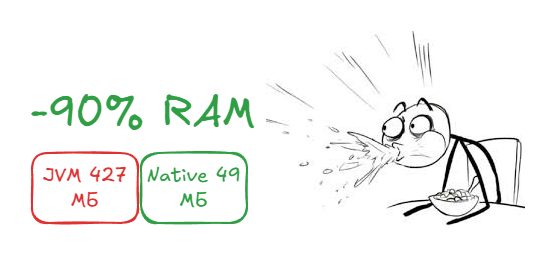
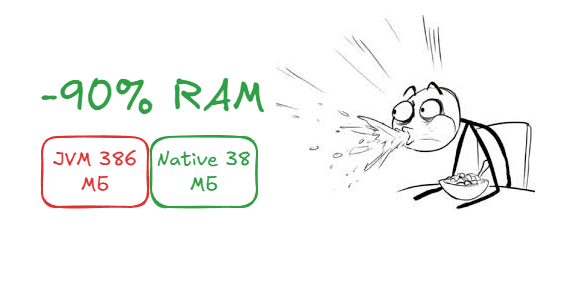
feature/team-2 Added english language readme. Modified russian readme. Updated image -90percents.

diff --git a/README.md b/README.md
@@ -1,0 +1,208 @@
+[📖 Read full version of article on the DZone]()
+# Java Lean & Fast: 38 MiB RAM and 1.2s Startup. 🚀
+# Is This the End of the Era for Traditional JVM? 💀
+
+<p align="center">
+    <img src="images/-90percents.PNG" alt="Java on Diet Meme" width="610">
+</p>
+
+[![EN](https://img.shields.io)](README.md)
+[![RU](https://img.shields.io)](README.ru.md)
+
+> **This repository contains research materials on extreme Java stack optimization**
+
+When I first saw my Spring Boot service — integrated with PostgreSQL, MongoDB, and Kafka — consuming only **38 MiB of RAM**, I felt a genuine thrill. It was the excitement of an engineer who had finally outsmarted the system. I was electrified by **Native Image**: its efficiency, its aggressive ahead-of-time (AOT) compilation, and how it transforms a "bloated" enterprise stack into a lean, high-performance binary.
+
+For years, we've been told: "_Java is resource-hungry!_" The common wisdom was: "_Allocate 2 GB per microservice, or the JIT won't warm up._"
+
+**Forget all that.** I've conducted an R&D project that puts an end to the debate over Java's appetite!
+
+These aren't just benchmarks. **This is an autopsy!**
+
+---
+
+### Table of Contents
+
+1. [Hardware Setup](#hardware-setup)
+2. [The "Hotel Service" Stack](#the-hotel-service-stack)
+3. [Docker stats: Initial Baseline](#docker-stats-initial-baseline)
+4. [Docker stats: Resource Shift Under Load](#docker-stats-resource-shift-under-load)
+5. [CPU Usage: JIT Noise vs Static Calm](#cpu-usage-jit-noise-vs-static-calm)
+6. [Heaps: Sawtooth vs Flatline](#heaps-sawtooth-vs-flatline)
+7. [Classes and Threads: Static vs Dynamic](#classes-and-threads-static-vs-dynamic)
+8. [Garbage Collector: Surgical Silence vs Stop-the-World](#garbage-collector-surgical-silence-vs-stop-the-world)
+9. [Database Micro-latency: The "Hot Pool" Effect](#database-micro-latency-the-hot-pool-effect)
+10. [The Battle in Numbers: JRE vs Native Image](#the-battle-in-numbers-jre-vs-native-image)
+11. [25 Technical Takeaways: Why This is a Revolution](#25-technical-takeaways-why-this-is-a-revolution)
+12. [Instead of a Conclusion](#instead-of-a-conclusion)
+13. [P.S. See It for Yourself](#ps-see-it-for-yourself)
+
+## Hardware Setup
+The benchmarks were conducted on an **HP EliteBook 8770w** workstation:
+- **CPU:** Intel i7-3720QM (4 Cores / 8 Threads)
+- **RAM:** 32.0 GB
+- **Storage:** SSD
+- **OS:** Windows 10
+- **Containerization:** Docker Desktop
+
+## The "Hotel Service" Stack
+To avoid "toy project" bias and keep the testing realistic, I used a production-grade microservices stack:
+- **Java 21 + Project Loom (Virtual Threads):** Leveraging Virtual Threads for high concurrency.
+- **Spring Boot 3.5 + Hibernate 6.6:** Utilizing AOT (Ahead-of-Time) capabilities and Bytecode Enhancement.
+- **Infrastructure:** PostgreSQL 17, MongoDB 7, and Apache Kafka 3.x
+- **The Head-to-Head Battle:** **Eclipse Temurin 21 JDK (HotSpot)** vs **Oracle GraalVM 21 (Native Image)**.
+
+## Visual Autopsy: Runtime Behavior
+Before we dive into the spreadsheets and raw data, let's examine the "cardiogram" of the system.
+
+On the left, you'll see the classic, resource-heavy power of **HotSpot**; on the right, the surgically lean profile of Native Image.
+
+### Docker stats: Initial Baseline
+
+|                  Temurin JRE (HotSpot)                  |               Oracle GraalVM (Native Image)                |
+|:-------------------------------------------------------:|:----------------------------------------------------------:|
+| ![](images/0_docker_stats_temurin_jvm_hotel_before.PNG) | ![](images/0_docker_stats_vanilla_native_hotel_before.PNG) |
+
+> After container startup, the JRE version (hotel) consumes **386 MiB**, while the native binary (hotel-native) takes up a modest **38 MiB**. This makes it the lightest component of the infrastructure — lighter than PostgreSQL and **9.5 times** leaner than Kafka.
+
+### Docker stats: Resource Shift Under Load
+
+|                        Temurin JRE (HotSpot)                         |                  Oracle GraalVM (Native Image)                   |
+|:--------------------------------------------------------------------:|:----------------------------------------------------------------:|
+| ![](images/0_docker_stats_stress_temurin_jvm_hotel_after_stress.PNG) | ![](images/0_docker_stats_stress_vanilla_native_hotel_after.PNG) |
+
+> The results speak for themselves. While the JRE version (hotel) struggles under pressure, consuming **417 MiB**, the native binary (hotel-native) stays lean at just **32 MiB**.
+
+### CPU Usage: JIT Noise vs Static Calm
+
+|                       Temurin JRE (HotSpot)                       |                 Oracle GraalVM (Native Image)                 |
+|:-----------------------------------------------------------------:|:-------------------------------------------------------------:|
+| ![](images/1_basic_statistics_temurin_jvm_hotel_after_stress.PNG) | ![](images/1_basic_statistics_vanilla_native_hotel_after.PNG) |
+
+> While the classical JVM produces noticeable "background noise" (**Mean: 0.0345**) due to JIT compilation (C2 profiling and re-optimization) and GC cycles, Native Image shows near-zero parasitic load (**Mean: 0.0276**). On average, this is **1.25x** more efficient, reaching parity only during idle periods.
+
+### Heaps: Sawtooth vs Flatline
+
+|                          Temurin JRE (HotSpot)                          |                   Oracle GraalVM (Native Image)                   |
+|:-----------------------------------------------------------------------:|:-----------------------------------------------------------------:|
+| ![](images/2_JVM_statistics_heaps_temurin_jvm_hotel_after_stress_1.PNG) | ![](images/2_JVM_statistics_heaps_vanilla_native_hotel_after.PNG) |
+
+> The classic "sawtooth" pattern of the Eden Space in JVM contrasts sharply with the perfectly flat line of the Native Image. Note the Non-Heap metrics: in the native image, they are virtually non-existent. We have effectively discarded hundreds of megabytes of "infrastructure overhead".
+
+### Classes and Threads: Static vs Dynamic
+
+|                               Temurin JRE (HotSpot)                               |                        Oracle GraalVM (Native Image)                        |
+|:---------------------------------------------------------------------------------:|:---------------------------------------------------------------------------:|
+| ![](images/3_JVM_statistics_threads_buffers_temurin_jvm_hotel_after_stress_1.PNG) | ![](images/3_JVM_statistics_threads_buffers_vanilla_native_hotel_after.PNG) |
+
+> **"Shock content" for a Java developer:** 0 loaded classes. At runtime, classes do not exist in Native Image as separate entities. Furthermore, the number of system threads is halved (28 vs 51) thanks to the synergy between Native Image and **Project Loom**.
+
+### Garbage Collector: Surgical Silence vs Stop-the-World
+
+|                       Temurin JRE (HotSpot)                        |                 Oracle GraalVM (Native Image)                  |
+|:------------------------------------------------------------------:|:--------------------------------------------------------------:|
+| ![](images/4_JVM_statistics_gc_temurin_jvm_hotel_after_stress.PNG) | ![](images/4_JVM_statistics_gc_vanilla_native_hotel_after.PNG) |
+
+> The "Stop the World" duration charts for Native Image show dead silence. While the standard JVM performed a "tap dance" of over 20 GC cycles (G1 Evacuation Pauses) peaking at 29.0 ms, the GraalVM binary remained perfectly steady. By utilizing **Serial GC** by default, Native Image handles memory so delicately that monitoring systems barely register the pauses. This isn't just about saving RAM; it's about a predictable SLA without the overhead of runtime self-maintenance.
+
+### Database Micro-latency: The "Hot Pool" Effect
+
+|                        Temurin JRE (HotSpot)                         |                  Oracle GraalVM (Native Image)                   |
+|:--------------------------------------------------------------------:|:----------------------------------------------------------------:|
+| ![](images/5_HikariCP_statistics_temurin_jvm_hotel_after_stress.PNG) | ![](images/5_HikariCP_statistics_vanilla_native_hotel_after.PNG) |
+
+> Under load, the latency for acquiring HikariCP connections in the classical JVM drops from **~900 µs** to **80–100 µs**. In contrast, the Native Image latency drops from **~270 µs** to a record-breaking **40 µs**.
+
+## The Battle in Numbers: JRE vs Native Image
+
+I applied a load of 1,000 requests to both versions. The results were so staggering that I had to double-check my monitoring tools.
+
+
+| Metric             | Eclipse Temurin (JRE) | Oracle GraalVM (Native Image) | The Profit         |
+|--------------------|-----------------------|-------------------------------|--------------------|
+| Startup Time       | 22.542 sec            | **1.27 sec**                  | X18 Faster         |
+| Ram (idle)         | 386.8 MiB             | **38.0 MiB**                  | –90.1% RAM         |
+| Ram (Stress Load)  | 424.9 MiB             | **34.6 MiB**                  | Native got leaner! |
+| Loaded Classes     | 21,542                | **0**                         | Pure Static        |
+| System Threads     | 51                    | **28**                        | В 1.8 Leaner       |
+| STW Pauses (Total) | 29.0 ms               | **~0 ms**                     | Perfect SLA        |
+
+## 25 Technical Takeaways: Why This is a Revolution
+
+Below is the raw analysis of Prometheus charts and system logs. No sugar-coating.
+
+<details>
+<summary><b>Infrastructure and Memory</b></summary>
+
+1. **The Death of Metaspace:** In the Native version, there are 0 loaded classes at runtime. We saved 96 MiB just by eliminating class structure descriptions.
+2. **Zero Code Cache:** In the JRE, the JIT compiler claimed 16 MiB for "hot" code during the test. In Native, this is 0. The code is "baked" into the binary.
+3. **The Paradox of Load:** Under stress, the Native Image consumed less memory (dropping from 38 to 34 MiB). Oracle GraalVM's Serial GC operates with surgical precision.
+4. **Density:** Where you once ran 1 JRE service, you can now fit 10 Native instances. This is an order-of-magnitude reduction in TCO (Total Cost of Ownership).
+5. **Non-Heap as a Phantom:** The JRE's Non-Heap area alone weighs 3 times more than our entire native application.
+6. **Compressed Class Space:** Another 14 MiB "dynamic tax" that Native simply doesn't pay.
+7. **Data Locality:** Native Image achieves a "Compact Layout", keeping data shoulder-to-shoulder for better CPU cache utilization.
+</details>
+
+
+<details>
+<summary><b>Performance and Latency</b></summary>
+
+8. **Instant Start:** 1.2 seconds isn't just fast; it's "Serverless-ready" and enables true "Scale-to-Zero" architectures.
+9. **Network Stack Cold Start:** The latency of the very first request in Native was 912ms, compared to 1.2s in the JRE.
+10. **JIT Inertia:** JVM versions need "warm-up" time. Native delivers peak performance from the very first millisecond.
+11. **Database Micro-latency:** HikariCP connection acquisition in Native is 2-3 times faster under load compared to the JRE.
+12. **The Throughput Trade-off:** After warm-up, the JRE clocked 10.9ms, while Native kept pace at 14.9ms while consuming 10x fewer resources.
+13. **Zero STW Jitter:** While the JRE "froze the world" 20 times (29ms total duration, 9ms peaks), Native maintained zero jitter throughout.
+</details>
+
+
+<details>
+<summary><b>Architecture and Runtime</b></summary>
+
+14. **Project Loom Efficiency:** Virtual threads in Native use 1.8x fewer system descriptors (28 PIDs vs 51).
+15. **Hibernate AOT:** Build-time Bytecode Enhancement is the only way to maintain Lazy Loading in Native without runtime surprises.
+16. **Runtime Purity:** Zero reflection errors in the logs. If a Native Image builds, it runs like a Swiss watch.
+17. **The Death of ClassLoader:** We've eliminated one of the slowest and most complex parts of the JVM.
+18. **Static Metamodel:** No dynamic proxies at runtime. All entity mapping is resolved at compile-time.
+19. **Security:** Native images lack the ability to load malicious bytecode at runtime, significantly shrinking the attack surface.
+</details>
+
+
+<details>
+<summary><b>Observability</b></summary>
+
+20. **Log Transparency:** SLF4J + Logback work in Native without the overhead of dynamic configuration.
+21. **Zero-Overhead Monitoring:** Prometheus scrapes Native Image metrics in microseconds.
+22. **Direct Buffers:** Netty buffer management is more efficient at the OS level in Native mode.
+23. **Build as a Filter:** If your code has "dirty" dependencies, the Native compiler simply won't let them through.
+</details>
+
+
+<details>
+<summary><b>Economics and Deployment</b></summary>
+
+24. **Image Size:** Oracle GraalVM (Debian-based) saved 17 MiB compared to a Temurin JRE on the same OS.
+25. **The CI/CD Trade-off:** We pay for a 1.2s startup with 20 minutes of build time. that is a price I am more than willing to pay for a perfect runtime.
+</details>
+
+## Instead of a Conclusion
+The numbers are right in front of you. The charts speak for themselves. This is the reality of Java in 2026. It is no longer "resource-hungry". It has become as lean and efficient as Go while remaining the robust, Spring-based ecosystem we know and love.
+
+Whether you choose to embrace Native Image or stick with the proven power of HotSpot depends on your specific use case. Both have their place in a modern architecture.
+
+As for me, I'm excited to deploy ten instances using the same resources typically reserved for just one. The revolution isn't coming; it's already here, running in a 38 MiB container.
+
+**Until next time!**
+
+---
+
+## P.S. See It for Yourself
+
+For those who trust only their own eyes and terminal: all the code, Dockerfiles for **all 5 build types** (Vanilla, Axiom, Layers, Native, Uber-jar), and the pre-configured monitoring stack (Prometheus/Grafana) are available in the repository.
+
+Run the experiment, apply the load, and see for yourself:
+1. `git clone https://github.com/GroteskSerega/hotel`
+2. `docker-compose up -d`
+3. Open Grafana at `localhost:3000` and watch your Java service "slim down" right before your eyes in the dashboard(**ID:11378**).
+
+[**GitHub Repository**](https://github.com/GroteskSerega/hotel)

diff --git a/README.ru.md b/README.ru.md
@@ -25,12 +25,17 @@
 
 1. [Оборудование](#оборудование)
 2. [Стек "Hotel Service"](#стек-hotel-service)
-2. [Docker Stats: расстановка сил](#docker-stats-расстановка-сил)
-3. [Heaps: Пила против Прямой](#heaps-пила-против-прямой)
-4. [Классы и Потоки: Статика против Динамики](#классы-и-потоки-статика-против-динамики)
-5. [Garbage Collector: Хирургическая тишина против "остановки мира"](#garbage-collector-хирургическая-тишина-против-остановки-мира)
-6. [Битва в цифрах: JRE vs Native Image](#битва-в-цифрах-jre-vs-native-image)
-7. [25 Технических выводов: Почему это революция](#25-технических-выводов-почему-это-революция)
+3. [Docker Stats: расстановка сил до запуска](#docker-stats-расстановка-сил-до-запуска)
+4. [Docker Stats: изменение сил во время нагрузки](#docker-stats-изменение-сил-во-время-нагрузки)
+5. [CPU Usage: “Штиль” вместо “шума” JIT-компилятора](#cpu-usage-штиль-вместо-шума-jit-компилятора)
+6. [Heaps: Пила против Прямой](#heaps-пила-против-прямой)
+7. [Классы и Потоки: Статика против Динамики](#классы-и-потоки-статика-против-динамики)
+8. [Garbage Collector: Хирургическая тишина против "остановки мира"](#garbage-collector-хирургическая-тишина-против-остановки-мира)
+9. [Микро-латентность БД: Эффект “горячего” пула в Native Image](#микро-латентность-бд-эффект-горячего-пула-в-native-image)
+10. [Битва в цифрах: JRE vs Native Image](#битва-в-цифрах-jre-vs-native-image)
+11. [25 Технических выводов: Почему это революция](#25-технических-выводов-почему-это-революция)
+12. [Вместо выводов](#вместо-выводов)
+13. [P.S. Попробуй сам](#ps-попробуй-сам)
 
 ## Оборудование
 В качестве оборудования использовался ноутбук HP EliteBook 8770w:
@@ -52,13 +57,21 @@
 
 Слева – классическая мощь HotSpot, справа – нативная диета Native Image.
 
-### Docker Stats: расстановка сил
+### Docker Stats: расстановка сил до запуска
 
 |                  Temurin JRE (HotSpot)                  |               Oracle GraalVM (Native Image)                |
 |:-------------------------------------------------------:|:----------------------------------------------------------:|
 | ![](images/0_docker_stats_temurin_jvm_hotel_before.PNG) | ![](images/0_docker_stats_vanilla_native_hotel_before.PNG) |
 
-> Здесь всё на ладони. Пока JRE-версия (hotel) борется за выживание, потребляя 386 MiB, нативный бинарник (hotel-native) скромно занимает 38 MiB, становясь самым лёгким элементом инфраструктуры – легче Postgres и в 9,5 раз легче Kafka.
+> После запуска контейнеров JRE-версия (hotel) потребляет **386 MiB**, нативный бинарник (hotel-native) скромно занимает **38 MiB**, становясь самым лёгким элементом инфраструктуры – легче Postgres и в **9,5 раз** легче Kafka.
+
+### Docker Stats: изменение сил во время нагрузки
+
+|                        Temurin JRE (HotSpot)                         |                  Oracle GraalVM (Native Image)                   |
+|:--------------------------------------------------------------------:|:----------------------------------------------------------------:|
+| ![](images/0_docker_stats_stress_temurin_jvm_hotel_after_stress.PNG) | ![](images/0_docker_stats_stress_vanilla_native_hotel_after.PNG) |
+
+> Здесь всё на ладони. Пока JRE-версия (hotel) борется за выживание, потребляя **417 MiB**, нативный бинарник (hotel-native) скромно занимает **32 MiB**.
 
 ### CPU Usage: “Штиль” вместо “шума” JIT-компилятора
 
@@ -90,7 +103,7 @@
 |:------------------------------------------------------------------:|:--------------------------------------------------------------:|
 | ![](images/4_JVM_statistics_gc_temurin_jvm_hotel_after_stress.PNG) | ![](images/4_JVM_statistics_gc_vanilla_native_hotel_after.PNG) |
 
-> На графиках GC Stop the World Duration в Native-режиме – мёртвая тишина. Пока нативный бинарник на базе Oracle GraalVM шёл ровным потоком, классическая JVM под нагрузкой устроила настоящую чечётку. За время теста мы зафиксировали более 20 циклов сборки мусора (G1 Evacuation Pause) 29.0 мс. В Oracle GraalVM по умолчанию трудится Serial GC, и он делает это настолько филигранно, что система мониторинга просто не фиксирует пауз. Это не просто экономия памяти – это безупречный, предсказуемый SLA без микро-задержек на "самообслуживание" рантайма.
+> На графиках GC Stop the World Duration в Native-режиме – мёртвая тишина. Пока нативный бинарник на базе Oracle GraalVM шёл ровным потоком, классическая JVM под нагрузкой устроила настоящую чечётку. За время теста мы зафиксировали более 20 циклов сборки мусора (G1 Evacuation Pause) с итоговым STW 29.0 мс с пиковым показателем в 9.0 мс. В Oracle GraalVM по умолчанию трудится Serial GC, и он делает это настолько филигранно, что система мониторинга просто не фиксирует пауз. Это не просто экономия памяти – это безупречный, предсказуемый SLA без микро-задержек на "самообслуживание" рантайма.
 
 ### Микро-латентность БД: Эффект “горячего” пула в Native Image
 
@@ -98,20 +111,20 @@
 |:--------------------------------------------------------------------:|:----------------------------------------------------------------:|
 | ![](images/5_HikariCP_statistics_temurin_jvm_hotel_after_stress.PNG) | ![](images/5_HikariCP_statistics_vanilla_native_hotel_after.PNG) |
 
-> При поступлении запросов латентность получения соединений HikariPC в классической JVM падает с **~900 мкс** до **80-100 мкс**, в то время как латентность Native-образа под нагрузкой падает с **~270 мкс** до рекордных **40 мкс**.
+> При поступлении запросов латентность получения соединений HikariPC в классической JVM падает с **~900 мкс** до **80-100 мкс**, в то время как латентность Native-образа под нагрузкой падает с **~250 мкс** до рекордных **40 мкс**.
 
 ## Битва в цифрах: JRE vs Native Image
 
 Я подал нагрузку в 1000 запросов на оба варианта. Результаты заставили меня перепроверять источники.
 
-| Метрика           | Temurin JRE (HotSpot) | Oracle GraalVM (Native Image) | Профит             |
-|-------------------|-----------------------|-------------------------------|--------------------|
-| Startup time      | 22.542 сек            | **1.27 сек**                  | X18 Быстрее        |
-| Ram (idle)        | 386.8 MiB             | **38.0 MiB**                  | - 90.1% RAM        |
-| Ram (Stress Load) | 424.9 MiB             | **34.6 MiB**                  | Native стал легче! |
-| Loaded Classes    | 21542                 | **0**                         | Чистая статика     |
-| System Threads    | 51                    | **28**                        | В 1,6 раза легче   |
-| STW Pauses        | 29.0 ms               | **~0ms**                      | Идеальный SLA      |
+| Метрика            | Temurin JRE (HotSpot) | Oracle GraalVM (Native Image) | Профит             |
+|--------------------|-----------------------|-------------------------------|--------------------|
+| Startup time       | 22.542 сек            | **1.27 сек**                  | X18 Быстрее        |
+| Ram (idle)         | 386.8 MiB             | **38.0 MiB**                  | - 90.1% RAM        |
+| Ram (Stress Load)  | 424.9 MiB             | **34.6 MiB**                  | Native стал легче! |
+| Loaded Classes     | 21542                 | **0**                         | Чистая статика     |
+| System Threads     | 51                    | **28**                        | В 1,6 раза легче   |
+| STW Pauses (Total) | 29.0 ms               | **~0ms**                      | Идеальный SLA      |
 
 ## 25 Технических выводов: Почему это революция
 Ниже – всё, что я увидел на графиках Prometheus и в логах системы. Без прикрас.
@@ -169,7 +182,7 @@
 </details>
 
 ## Вместо выводов
-Я не буду отвечать в комментариях. Я не буду спорить о том, "нужно ли это в продакшене".
+Я не буду спорить о том, "нужно ли это в продакшене".
 
 Перед вами цифры. Перед вами графики. Перед вами реальность 2026 года. Java перестала быть "тяжёлой". Она стала эффективнее Go, оставаясь при этом мощным Spring-инструментом.
 
@@ -177,7 +190,7 @@
 
 А я пошёл деплоить ещё десять инстансов на те ресурсы, которые вы тратите на один.
 
-**Adios!**
+**До новых встреч!**
 
 ---
 
@@ -187,6 +200,6 @@
 Повторите эксперимент, подайте нагрузку и убедитесь сами:
 1. `git clone https://github.com/GroteskSerega/hotel`
 2. `docker-compose up -d`
-3. Открой Grafana на `localhost:3000` и смотри, как твоя Java "худеет" на глазах.
+3. Открой Grafana на `localhost:3000` и смотри, как твоя Java "худеет" на глазах в Dashboard с ID 11378.
 
 **GitHub:** https://github.com/GroteskSerega/hotel
